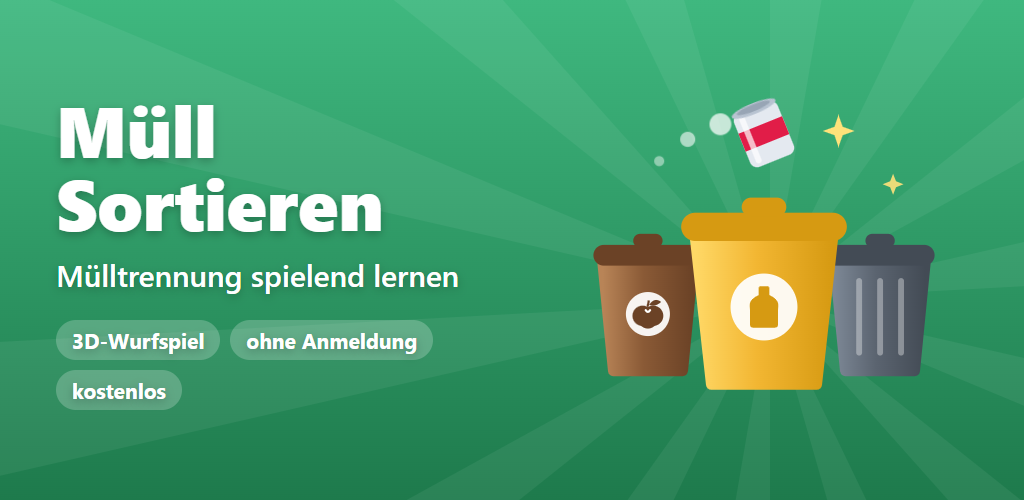
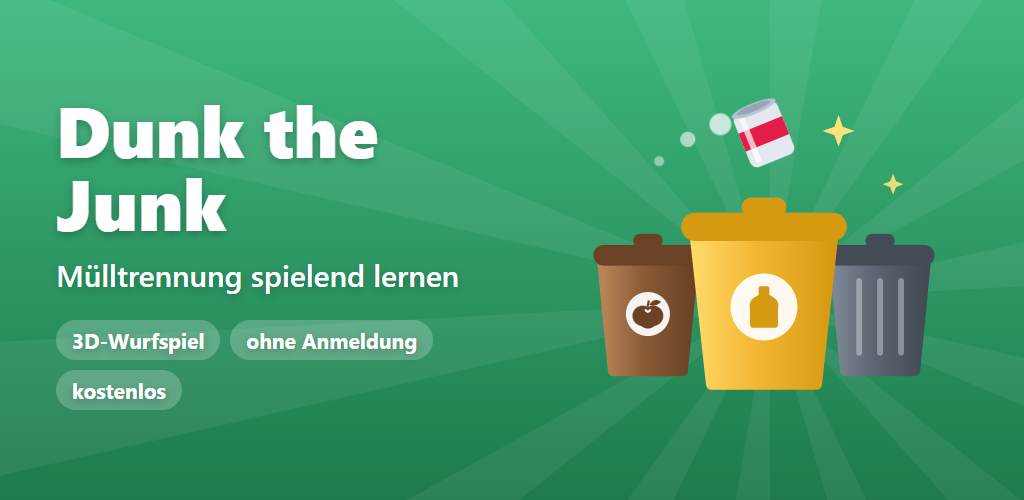
App-Name „Dunk the Junk“ statt „Müll Sortieren“
- app.json name (slug und Bundle-ID bleiben – hängen am EAS-Projekt)
- Store-Texte, Rechtstext-Entwürfe, README der Veröffentlichung
- Teilen-Text der Tagesaufgabe (DE/EN), Titel auf der Anmeldeseite
- Store-Grafiken neu erzeugt (Feature-Grafik, Icon)
- ROADMAP: Vermerk inkl. offener Punkte (veröffentlichte Rechtstexte,
  Name in App Store Connect)

Changed region(s): [[0.0625, 0.21, 0.375, 0.33], [0.0312, 0.36, 0.375, 0.48]]

diff --git a/i18n/de.ts b/i18n/de.ts
@@ -37,8 +37,8 @@ export const de = {
   "home.bins": "Die 3 Tonnen",
   "home.tutorial": "So geht's",
   "home.settings": "Einstellungen",
-  "home.titleTop": "Müll",
-  "home.titleBottom": "Sortieren",
+  "home.titleTop": "Dunk the",
+  "home.titleBottom": "Junk",
   "home.continue": "Weiter",
   "home.record": "Rekord",
   "home.modesLabel": "Bereich wählen",
@@ -410,7 +410,7 @@ export const de = {
   "share.parcours.win": "Ich habe {name} im Parcours des Tages geschlagen: {n} Punkte! Schaffst du mehr? ♻",
   "share.parcours.score": "Im Parcours des Tages habe ich {n} Punkte geholt. Schaffst du mehr? ♻",
   "share.code": "Spiel gegen mich: Online → Freunde → Freund hinzufügen → {code}",
-  "game.end.shareText": "♻ Müll-Sortieren · Tagesaufgabe {date}\n{boxes}\n{correct}/{total} richtig · {score} Punkte",
+  "game.end.shareText": "♻ Dunk the Junk · Tagesaufgabe {date}\n{boxes}\n{correct}/{total} richtig · {score} Punkte",
   "game.end.dailyTitle": "Tagesaufgabe geschafft!",
   "game.end.level": "Level {level}",
   "game.end.levelUp": "Level-Aufstieg!",

diff --git a/i18n/en.ts b/i18n/en.ts
@@ -38,8 +38,8 @@ export const en: Translations = {
   "home.bins": "The 3 bins",
   "home.tutorial": "How to play",
   "home.settings": "Settings",
-  "home.titleTop": "Waste",
-  "home.titleBottom": "Sorting",
+  "home.titleTop": "Dunk the",
+  "home.titleBottom": "Junk",
   "home.continue": "Continue",
   "home.record": "Best",
   "home.modesLabel": "Choose an area",
@@ -411,7 +411,7 @@ export const en: Translations = {
   "share.parcours.win": "I beat {name} in the Course of the Day: {n} points! Can you do better? ♻",
   "share.parcours.score": "I got {n} points in the Course of the Day. Can you do better? ♻",
   "share.code": "Play me: Online → Friends → Add a friend → {code}",
-  "game.end.shareText": "♻ Waste Sorting · Daily challenge {date}\n{boxes}\n{correct}/{total} correct · {score} points",
+  "game.end.shareText": "♻ Dunk the Junk · Daily challenge {date}\n{boxes}\n{correct}/{total} correct · {score} points",
   "game.end.dailyTitle": "Daily challenge done!",
   "game.end.level": "Level {level}",
   "game.end.levelUp": "Level up!",

diff --git a/docs/veroeffentlichung/store-texte.md b/docs/veroeffentlichung/store-texte.md
@@ -1,4 +1,4 @@
-# Store-Einträge „Müll Sortieren“ – alle Texte und Antworten
+# Store-Einträge „Dunk the Junk“ – alle Texte und Antworten
 
 Entwurf vom 9.11.2026. Alles hier ist für **Apple App Store Connect** und die **Google Play Console** gedacht.
 Zeichenlimits stehen dabei (Stand meines Wissens – beim Eintragen prüfen, die Stores ändern sie manchmal).
@@ -9,8 +9,8 @@ Zeichenlimits stehen dabei (Stand meines Wissens – beim Eintragen prüfen, die
 
 | Feld | Eintrag |
 |---|---|
-| App-Name (Apple max. 30 Zeichen, Google max. 30) | **Müll Sortieren** (13 Zeichen) |
-| Name englisch (falls getrennt lokalisiert) | **Müll Sortieren – Waste Sorting** (29 Zeichen) |
+| App-Name (Apple max. 30 Zeichen, Google max. 30) | **Dunk the Junk** (13 Zeichen) |
+| Name englisch (falls getrennt lokalisiert) | **Dunk the Junk** (gleich, keine eigene Übersetzung nötig) |
 | Bundle-ID / Paketname | `de.phildevs.muellsortieren` (steht schon in `app.json`) |
 | Version | 1.0.0 (Build-Nummer zählt EAS automatisch, `appVersionSource: remote`, `autoIncrement`) |
 | Primäre Sprache | Deutsch; zusätzlich Englisch anlegen |
@@ -42,7 +42,7 @@ Alternativ: `Wirf Müll in die richtige Tonne` (31 – zu lang), `Richtig trenne
 ### Beschreibung (max. 4000 Zeichen)
 
 ```
-Wohin gehört die Bananenschale? Und die Chipstüte? Mit „Müll Sortieren“ lernst du Mülltrennung als Spiel: Wische den Gegenstand in die richtige Tonne – schnell, mit Köpfchen und mit Spaß.
+Wohin gehört die Bananenschale? Und die Chipstüte? Mit „Dunk the Junk“ lernst du Mülltrennung als Spiel: Wische den Gegenstand in die richtige Tonne – schnell, mit Köpfchen und mit Spaß.
 
 SO FUNKTIONIERT'S
 Ein Gegenstand erscheint. Du wischst ihn in die richtige Tonne: Papier, Gelber Sack, Glas, Bio, Restmüll oder Sondermüll. Triffst du richtig, sammelst du Punkte und Sterne. Landet er in der falschen Tonne, erfährst du freundlich, warum – so lernst du nebenbei.
@@ -79,10 +79,10 @@ Hinweis: Die Regeln zur Mülltrennung sind regional verschieden. Maßgeblich sin
 ### Stichwörter (Apple, max. 100 Zeichen, Komma ohne Leerzeichen)
 `Mülltrennung,Recycling,Müll,Tonne,Lernspiel,Umwelt,Kinder,sortieren,Biomüll,Gelber Sack,Papier,Glas` (100)
 
-(Der App-Name und die Kategorie zählen schon als Stichwörter – nicht wiederholen. Wort „Müll Sortieren“ weglassen.)
+(Der App-Name und die Kategorie zählen schon als Stichwörter – nicht wiederholen. Wort „Dunk the Junk“ weglassen.)
 
 ### „Neu in dieser Version“ (Version 1.0.0)
-`Erste Version von „Müll Sortieren“. Viel Spaß beim Sortieren!`
+`Erste Version von „Dunk the Junk“. Viel Spaß beim Sortieren!`
 
 ---
 
@@ -100,7 +100,7 @@ Hinweis: Die Regeln zur Mülltrennung sind regional verschieden. Maßgeblich sin
 ### Description (max. 4000 characters)
 
 ```
-Where does the banana peel go? And the crisp bag? With “Müll Sortieren” you learn waste sorting as a game: swipe each item into the right bin – fast, clever and fun.
+Where does the banana peel go? And the crisp bag? With “Dunk the Junk” you learn waste sorting as a game: swipe each item into the right bin – fast, clever and fun.
 
 HOW IT WORKS
 An item appears. You swipe it into the right bin: paper, yellow bag (packaging), glass, organic, general waste or hazardous waste. Hit the right bin and you collect points and stars. If it lands in the wrong bin, you are told kindly why – so you learn as you play.
@@ -138,7 +138,7 @@ Note: waste sorting rules differ by region. Follow the rules of your municipalit
 `recycling,waste,sorting,bin,trash,learning,kids,environment,organic,paper,glass,plastic,garbage` (95)
 
 ### What's new (version 1.0.0)
-`First version of “Müll Sortieren”. Have fun sorting!`
+`First version of “Dunk the Junk”. Have fun sorting!`
 
 ---
 

diff --git a/docs/veroeffentlichung/datenschutz-de.md b/docs/veroeffentlichung/datenschutz-de.md
@@ -1,5 +1,5 @@
 <!--
-ENTWURF – Datenschutzerklärung „Müll Sortieren“ (Deutsch)
+ENTWURF – Datenschutzerklärung „Dunk the Junk“ (Deutsch)
 Stand des Entwurfs: 9.11.2026. Geschrieben anhand des tatsächlichen Codes (utils/leaderboard.ts,
 utils/storage.ts, supabase/*.sql, app.json, package.json). Ich bin kein Anwalt – bitte vor der
 Veröffentlichung prüfen (z. B. mit einem Generator wie eRecht24 abgleichen oder kurz juristisch prüfen lassen).
@@ -14,7 +14,7 @@ SO BENUTZT DU DIESE DATEI
    diese Erklärung SOFORT anpassen und das Datum unten aktualisieren.
 -->
 
-# Datenschutzerklärung für die App „Müll Sortieren“
+# Datenschutzerklärung für die App „Dunk the Junk“
 
 Stand: [[TT.MM.JJJJ]]
 
@@ -33,7 +33,7 @@ Einen Datenschutzbeauftragten haben wir nicht benannt, weil wir dazu gesetzlich 
 
 ## 2. Das Wichtigste in Kürze
 
-- „Müll Sortieren“ ist ein Lernspiel zur Mülltrennung. Du kannst es **ohne Anmeldung** und **ohne Konto** spielen.
+- „Dunk the Junk“ ist ein Lernspiel zur Mülltrennung. Du kannst es **ohne Anmeldung** und **ohne Konto** spielen.
 - Die App enthält **keine Werbung**, **kein Tracking** und **keine Analyse- oder Absturz-Dienste von Drittanbietern**.
 - Die App fragt **keine Berechtigungen** ab: kein Zugriff auf Kamera, Mikrofon, Standort, Kontakte, Fotos oder Nachrichten.
 - Dein Spielstand (Fortschritt, Punkte, Einstellungen) bleibt **auf deinem Gerät**.

diff --git a/docs/veroeffentlichung/privacy-en.md b/docs/veroeffentlichung/privacy-en.md
@@ -1,5 +1,5 @@
 <!--
-DRAFT – Privacy Policy "Müll Sortieren" (English). Draft dated 9 Nov 2026.
+DRAFT – Privacy Policy "Dunk the Junk" (English). Draft dated 9 Nov 2026.
 Written from the actual code (utils/leaderboard.ts, utils/storage.ts, supabase/*.sql, app.json, package.json).
 I am not a lawyer – have it checked before publishing.
 
@@ -11,7 +11,7 @@ HOW TO USE
 4. Keep it in sync with datenschutz-de.md. If the app's data handling changes, update both.
 -->
 
-# Privacy Policy for the app "Müll Sortieren"
+# Privacy Policy for the app "Dunk the Junk"
 
 Last updated: [[DD Month YYYY]]
 
@@ -30,7 +30,7 @@ We have not appointed a data protection officer because we are not legally requi
 
 ## 2. In short
 
-- "Müll Sortieren" is a learning game about waste sorting. You can play it **without signing up** and **without an account**.
+- "Dunk the Junk" is a learning game about waste sorting. You can play it **without signing up** and **without an account**.
 - The app contains **no advertising**, **no tracking** and **no third-party analytics or crash-reporting services**.
 - The app asks for **no permissions**: no access to camera, microphone, location, contacts, photos or messages.
 - Your game progress (progress, points, settings) stays **on your device**.

diff --git a/ROADMAP.md b/ROADMAP.md
@@ -341,6 +341,7 @@ EAS `auto` und `preview`. Große Umbauten laufen hinter einem Schalter und gehen
 
 ### Phase F – Release (ganz am Ende, großenteils Nutzer-Aufgaben)
 - [ ] **F16 Ergebnis als Bild teilen** (← R8a, braucht Abhängigkeit view-shot o. ä. – **du entscheidest**).
+- [x] **App-Name (Emre, 10.11.): „Dunk the Junk“** (statt „Müll Sortieren“) – in app.json `name`, Store-Texten, Rechtstext-Entwürfen, Teilen-Text und Store-Grafik. `slug` (`muell-sortieren`) und Bundle-ID bleiben, sonst bricht das EAS-Projekt. **Offen für Philipp:** die schon veröffentlichten Rechtstexte (GitHub Pages) nennen noch „Müll Sortieren“ – dort auch umbenennen; Name in App Store Connect so anlegen.
 - [ ] **F17 App-Symbol + Startbild** (← R7a, Entwurf von mir, Auswahl von dir).
 - [ ] **F18 Leistung älteres iPhone** (← R7f, du testest, ich optimiere).
 - [ ] **F19 Datenschutz + Impressum** (← R7d, **deine Angaben**), Link in Einstellungen.

diff --git a/docs/veroeffentlichung/impressum-de.md b/docs/veroeffentlichung/impressum-de.md
@@ -1,5 +1,5 @@
 <!--
-ENTWURF – Impressum „Müll Sortieren“. Stand des Entwurfs: 9.11.2026. Kein Rechtsrat – bitte prüfen.
+ENTWURF – Impressum „Dunk the Junk“. Stand des Entwurfs: 9.11.2026. Kein Rechtsrat – bitte prüfen.
 
 WARUM EIN IMPRESSUM?
 Wer in Deutschland (oder für deutsche Nutzer) eine App oder Website „geschäftsmäßig“ anbietet, braucht ein

diff --git a/docs/veroeffentlichung/README.md b/docs/veroeffentlichung/README.md
@@ -1,4 +1,4 @@
-# „Müll Sortieren“ veröffentlichen – Gesamtplan und Checkliste
+# „Dunk the Junk“ veröffentlichen – Gesamtplan und Checkliste
 
 Stand: 9.11.2026. In diesem Ordner liegt alles für den Start in den Stores:
 
